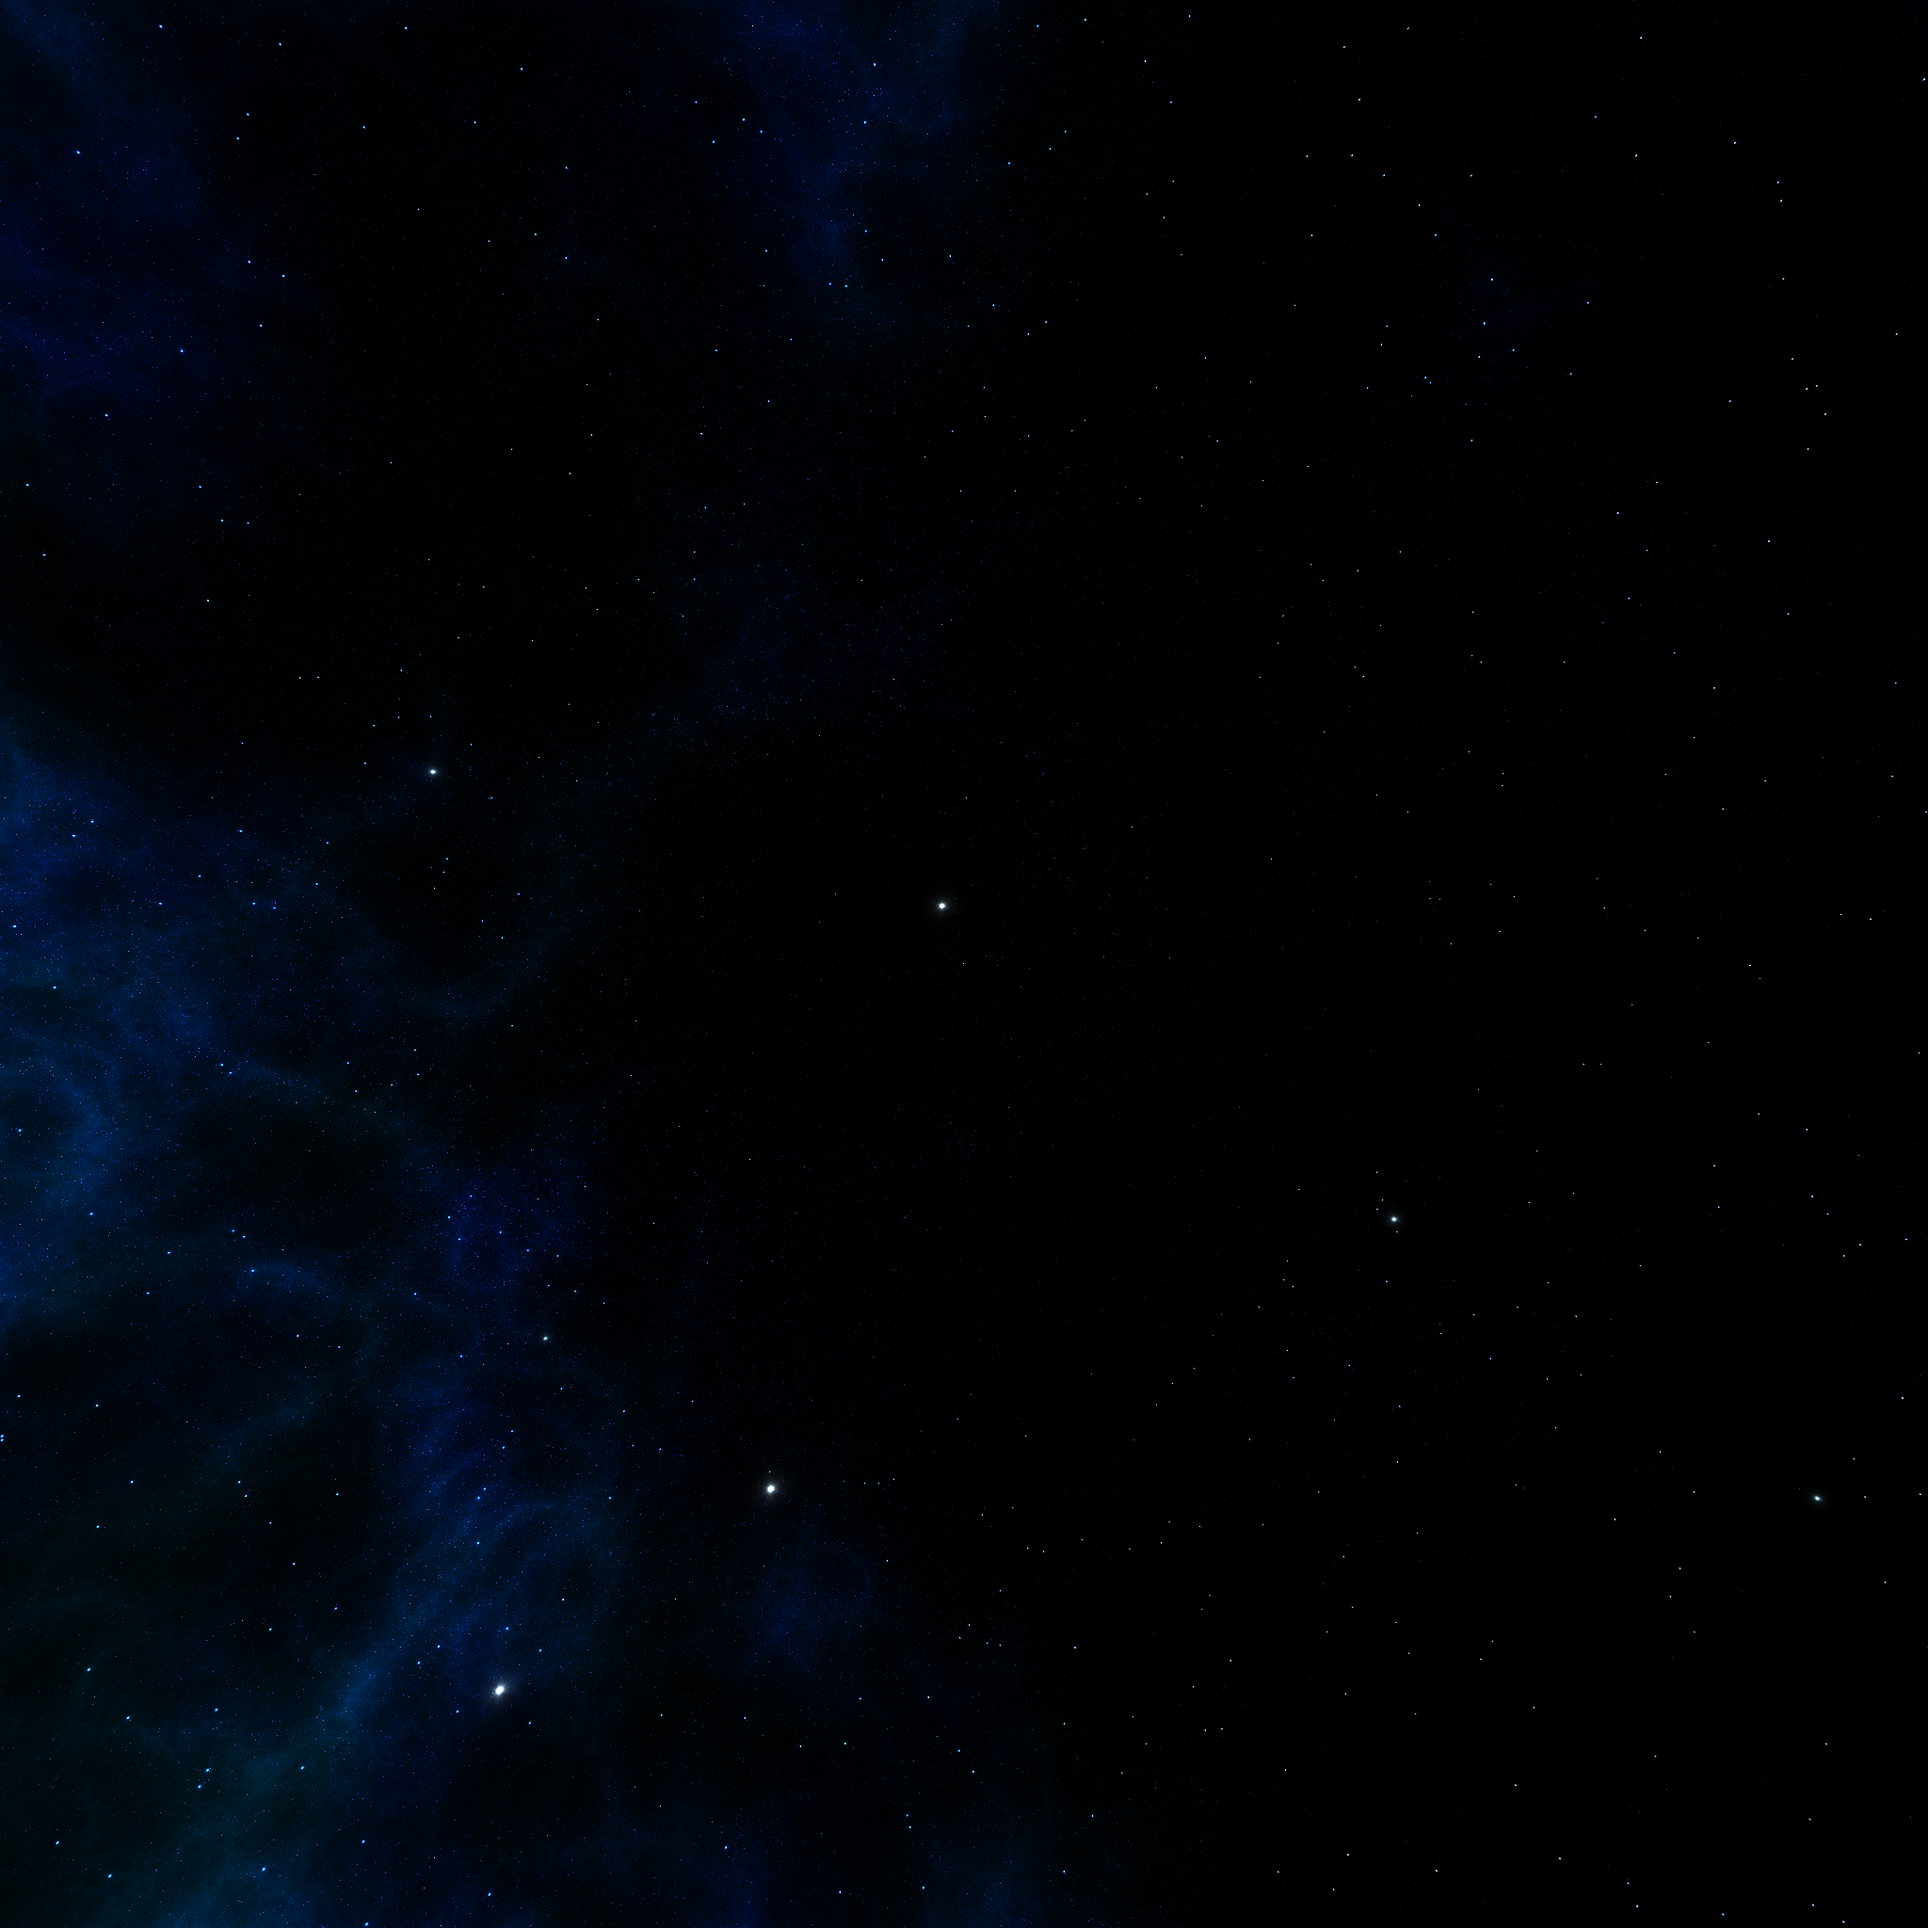
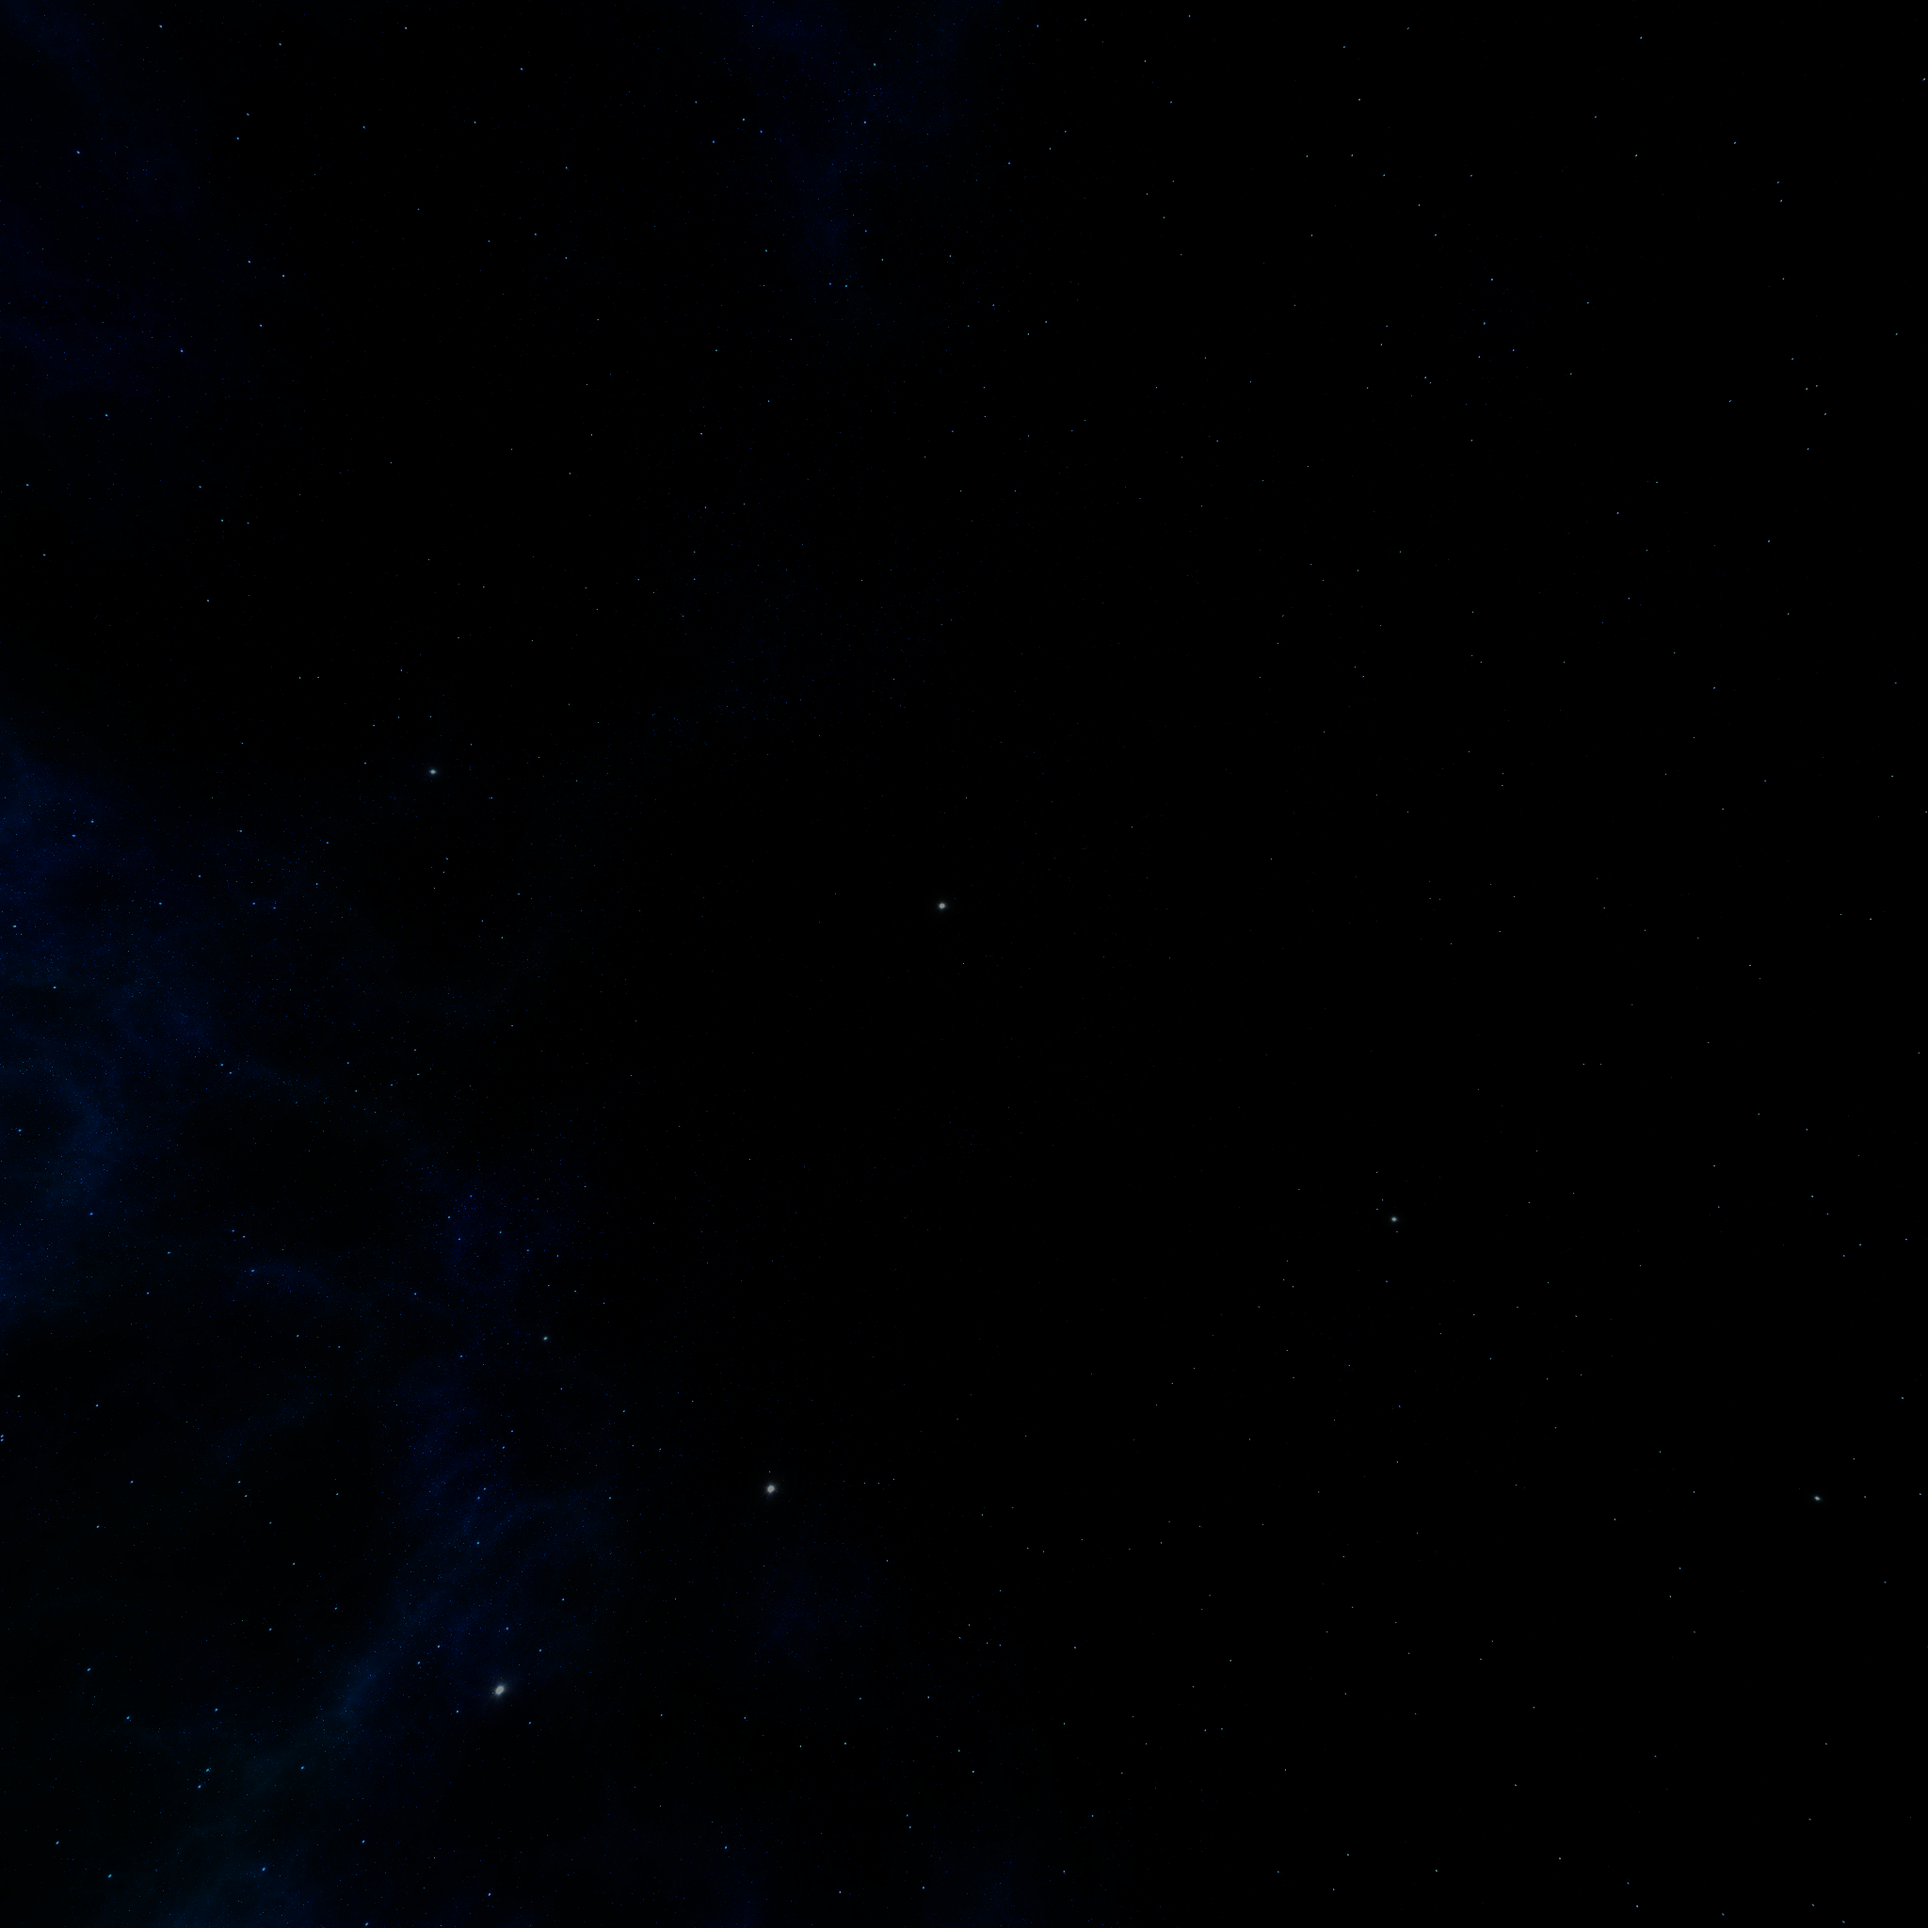
asd

diff --git a/src/Components/Scene/Scene1.js b/src/Components/Scene/Scene1.js
@@ -51,7 +51,7 @@ export default function Scene1() {
     light1.position.set(0, 15, 0);
     //scene.add(light1);
 
-    const light = new THREE.AmbientLight(0x559cc5, 1); // soft white light
+    const light = new THREE.AmbientLight(0xffffff, 1); // soft white light
     scene.add(light);
 
     const camera = new THREE.PerspectiveCamera(
@@ -96,7 +96,7 @@ export default function Scene1() {
     mountRef.current.appendChild(labelRenderer.domElement);
 
     const axesHelper = new THREE.AxesHelper(5);
-    //scene.add(axesHelper);
+    scene.add(axesHelper);
 
     /*     const gridHelper = new THREE.GridHelper(100, 120);
     gridHelper.position.set(0, 60, 0);
@@ -113,33 +113,29 @@ export default function Scene1() {
 
     const planeGeometry = new THREE.PlaneBufferGeometry(120, 120, 120, 120);
     const planeMaterial = new THREE.MeshStandardMaterial({
-      map: textureLoader.load(color),
+      //map: colorMat,
       displacementMap: groundDisplacement,
       displacementScale: 1,
       transparent: true,
       alphaMap: alphaMat,
       depthWrite: false,
       //color: "#BB430E",
-      //color: "#2771CC",
-      color: "white",
+      color: "#559cc5",
+
       wireframe: true,
     });
     const plane = new THREE.Mesh(planeGeometry, planeMaterial);
 
-    //gui.add(plane.material, "wireframe");
-
-    /*     plane.receiveShadow = true;
-    plane.castShadow = true; */
     plane.rotation.x = -Math.PI * 0.5;
 
     scene.add(plane);
 
     //const controls = new OrbitControls(camera, renderer.domElement);
     const controls = new OrbitControls(camera, labelRenderer.domElement);
-    /*     controls.minDistance = 20;
-    controls.maxDistance = 50;
+    controls.minDistance = 20;
+    controls.maxDistance = 90;
     controls.minPolarAngle = Math.PI / 4;
-    controls.maxPolarAngle = (Math.PI * 3) / 8; */
+    controls.maxPolarAngle = (Math.PI * 3) / 8;
 
     controls.target.set(0, 0, 0);
     controls.enableDamping = true;
@@ -201,7 +197,6 @@ export default function Scene1() {
 
       div.style.marginTop = "0em";
       div.style.opacity = "0";
-      div.style.color = "white";
       const label = new CSS2DObject(div);
       label.position.set(0, 0, 0);
       scene.add(label);
@@ -218,9 +213,35 @@ export default function Scene1() {
         opacity: 1,
       });
 
-      icon.addEventListener("pointerdown", () =>
+      /*       icon.addEventListener("pointerdown", () =>
         history.push(`/cube/${point.name}`),
-      );
+      ); */
+
+      icon.addEventListener("pointerdown", () => {
+        gsap.to(camera.lookAt, {
+          duration: 2,
+          delay: 0,
+          x: 0,
+          y: 0,
+          z: 0,
+        });
+
+        gsap.to(controls.target, {
+          duration: 2,
+          delay: 0,
+          x: 0,
+          y: 0,
+          z: 0,
+        });
+
+        gsap.to(camera.position, {
+          duration: 2,
+          delay: 0,
+          x: point.position.x * 1.2,
+          y: point.position.y * 1.2,
+          z: point.position.z * 1.2,
+        });
+      });
     });
 
     window.addEventListener("resize", onWindowResize, false);
@@ -233,7 +254,7 @@ export default function Scene1() {
     }
 
     gsap.to(camera.position, { duration: 2, delay: 0, x: 22, y: 15, z: 28 });
-    gsap.to(plane.material, { duration: 2, delay: 1, displacementScale: 22 });
+    gsap.to(plane.material, { duration: 2, delay: 1, displacementScale: 12 });
 
     //camera.position.set(22, 15, 28);
 

diff --git a/src/index.css b/src/index.css
@@ -26,13 +26,14 @@
 .marker-icon {
   width: 40px;
   height: 40px;
-  border: 1px solid var(--main);
+  border: 1px solid yellow;
   border-radius: 50%;
   display: flex;
   justify-content: center;
   align-items: center;
   backdrop-filter: blur(10px);
   background: rgba(0, 0, 0, 0.5);
+  color: white;
 }
 
 .marker-text {
@@ -69,13 +70,4 @@
   transition: 0.4s;
   filter: drop-shadow(0px 0px 0px cyan);
   position: relative;
-}
-
-canvas {
-  width: 100%;
-  height: 100%;
-  display: block;
-  background: url(https://threejsfundamentals.org/threejs/resources/images/daikanyama.jpg)
-    no-repeat center center;
-  background-size: cover;
 }

diff --git a/src/Components/Navbar/Navbar.js b/src/Components/Navbar/Navbar.js
@@ -2,7 +2,7 @@ import { Link } from "react-router-dom";
 
 export default function Navbar() {
   return (
-    <div className="w-16 border-r-main border-r-2 h-screen fixed flex flex-col justify-around items-center">
+    <div className="w-screen  h-16 fixed flex bg-black justify-around items-center">
       <Link>
         <i className="fal fa-home text-main"></i>
       </Link>

diff --git a/src/App.js b/src/App.js
@@ -12,7 +12,7 @@ import Navbar from "./Components/Navbar/Navbar";
 export default function App() {
   return (
     <Router>
-      {/* <Navbar /> */}
+      <Navbar />
       <div
         style={{
           display: "none",
